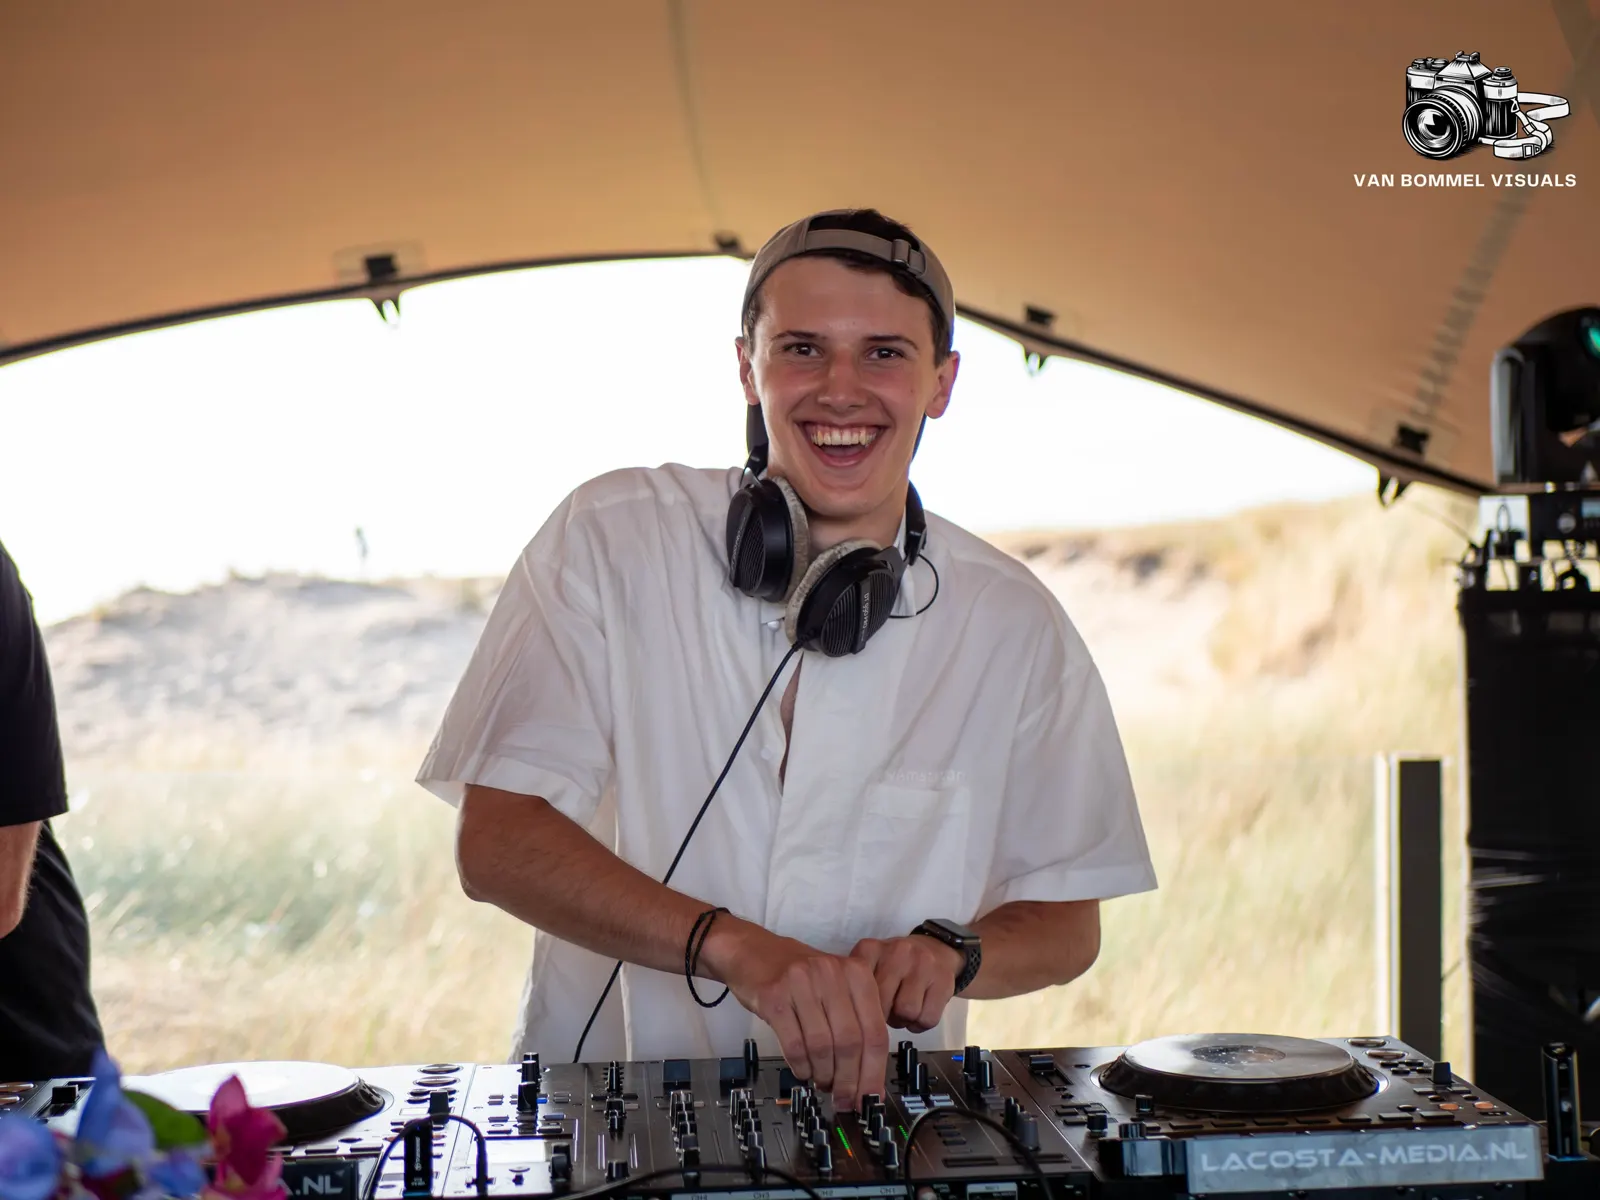
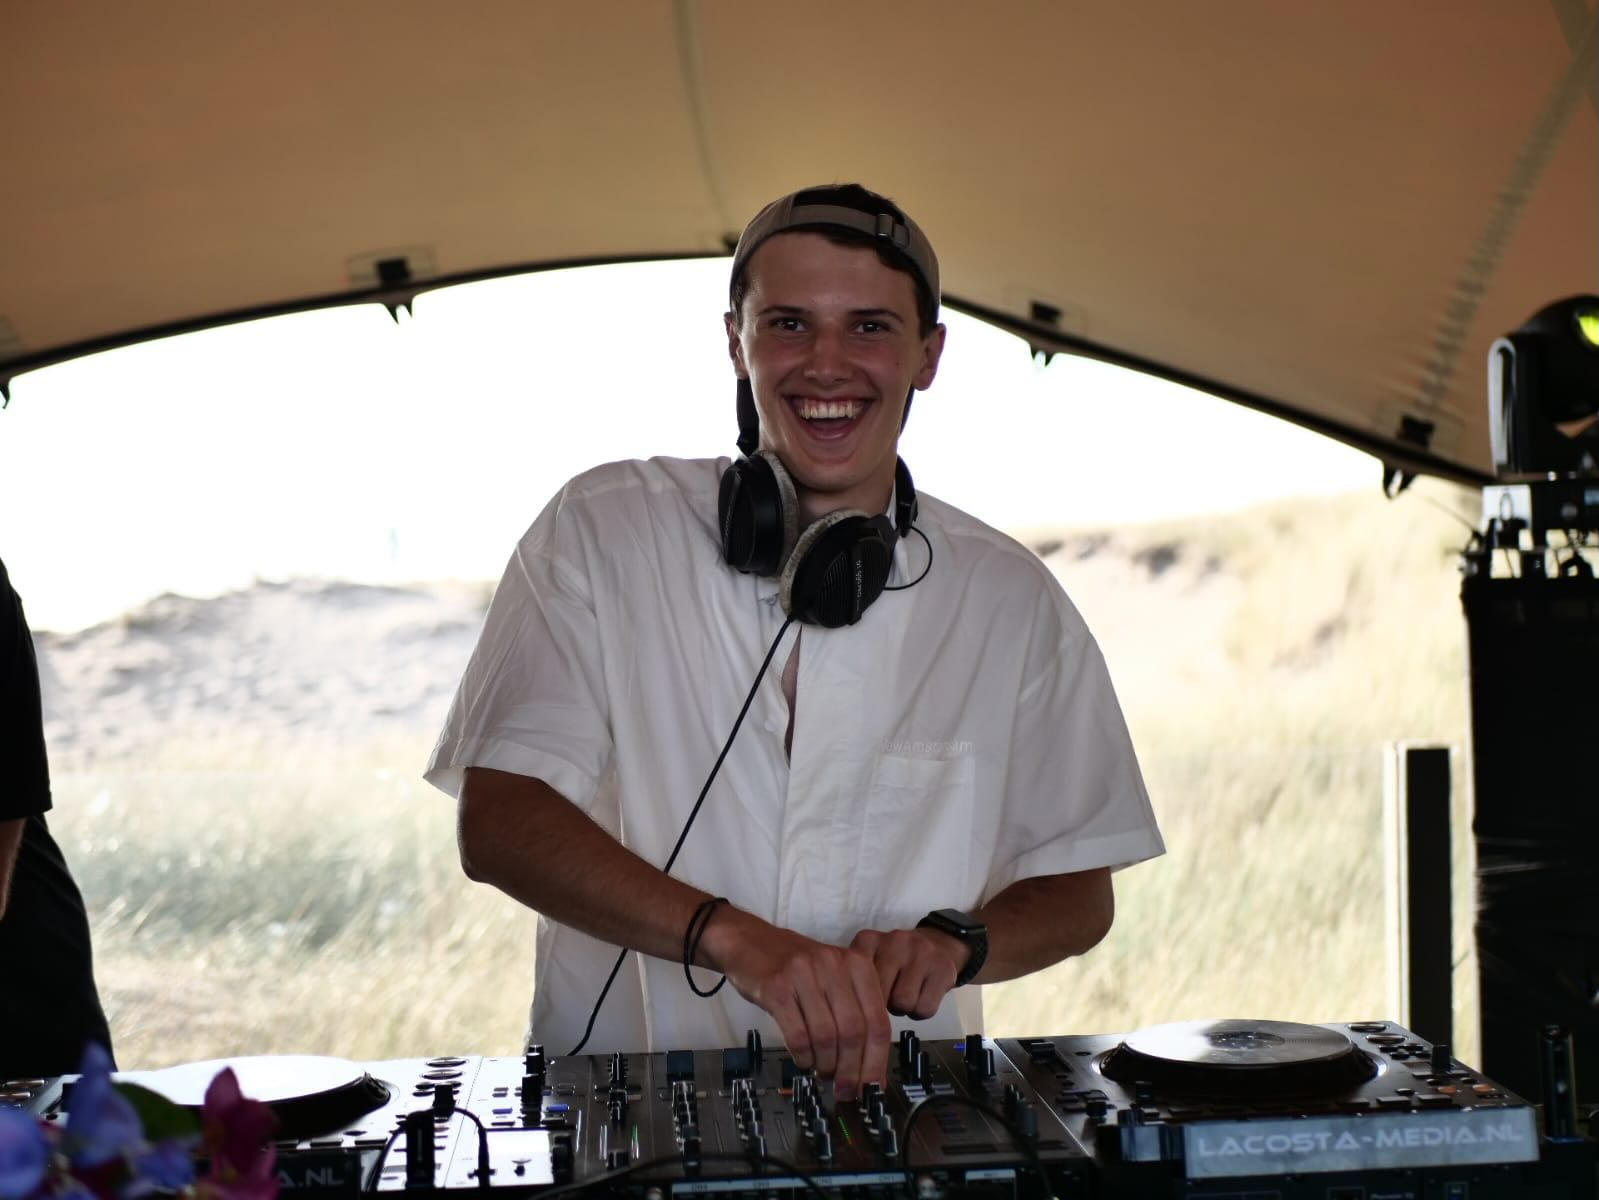
Onderkant + foto

diff --git a/contact.html b/contact.html
@@ -153,7 +153,7 @@
     </div>
   </div>
   <div class="footer-bottom">
-    <p>&copy; 2026 DJ Max &amp; Events &middot; KvK 94969949</p>
+    <p>&copy; AllMax Ventures &middot; KvK 94969949</p>
   </div>
 </footer>
 

diff --git a/faq.html b/faq.html
@@ -135,7 +135,7 @@
     </div>
   </div>
   <div class="footer-bottom">
-    <p>&copy; 2026 DJ Max &amp; Events &middot; KvK 94969949</p>
+    <p>&copy; AllMax Ventures &middot; KvK 94969949</p>
   </div>
 </footer>
 

diff --git a/index.html b/index.html
@@ -202,7 +202,7 @@
     </div>
   </div>
   <div class="footer-bottom">
-    <p>&copy; 2026 DJ Max &amp; Events &middot; KvK 94969949</p>
+    <p>&copy; AllMax Ventures &middot; KvK 94969949</p>
   </div>
 </footer>
 

diff --git a/over-ons.html b/over-ons.html
@@ -118,7 +118,7 @@
     </div>
   </div>
   <div class="footer-bottom">
-    <p>&copy; 2026 DJ Max &amp; Events &middot; KvK 94969949</p>
+    <p>&copy; AllMax Ventures &middot; KvK 94969949</p>
   </div>
 </footer>
 

diff --git a/pakketten.html b/pakketten.html
@@ -146,7 +146,7 @@
     </div>
   </div>
   <div class="footer-bottom">
-    <p>&copy; 2026 DJ Max &amp; Events &middot; KvK 94969949</p>
+    <p>&copy; AllMax Ventures &middot; KvK 94969949</p>
   </div>
 </footer>
 

diff --git a/shows.html b/shows.html
@@ -176,7 +176,7 @@
     </div>
   </div>
   <div class="footer-bottom">
-    <p>&copy; 2026 DJ Max &amp; Events &middot; KvK 94969949</p>
+    <p>&copy; AllMax Ventures &middot; KvK 94969949</p>
   </div>
 </footer>
 
